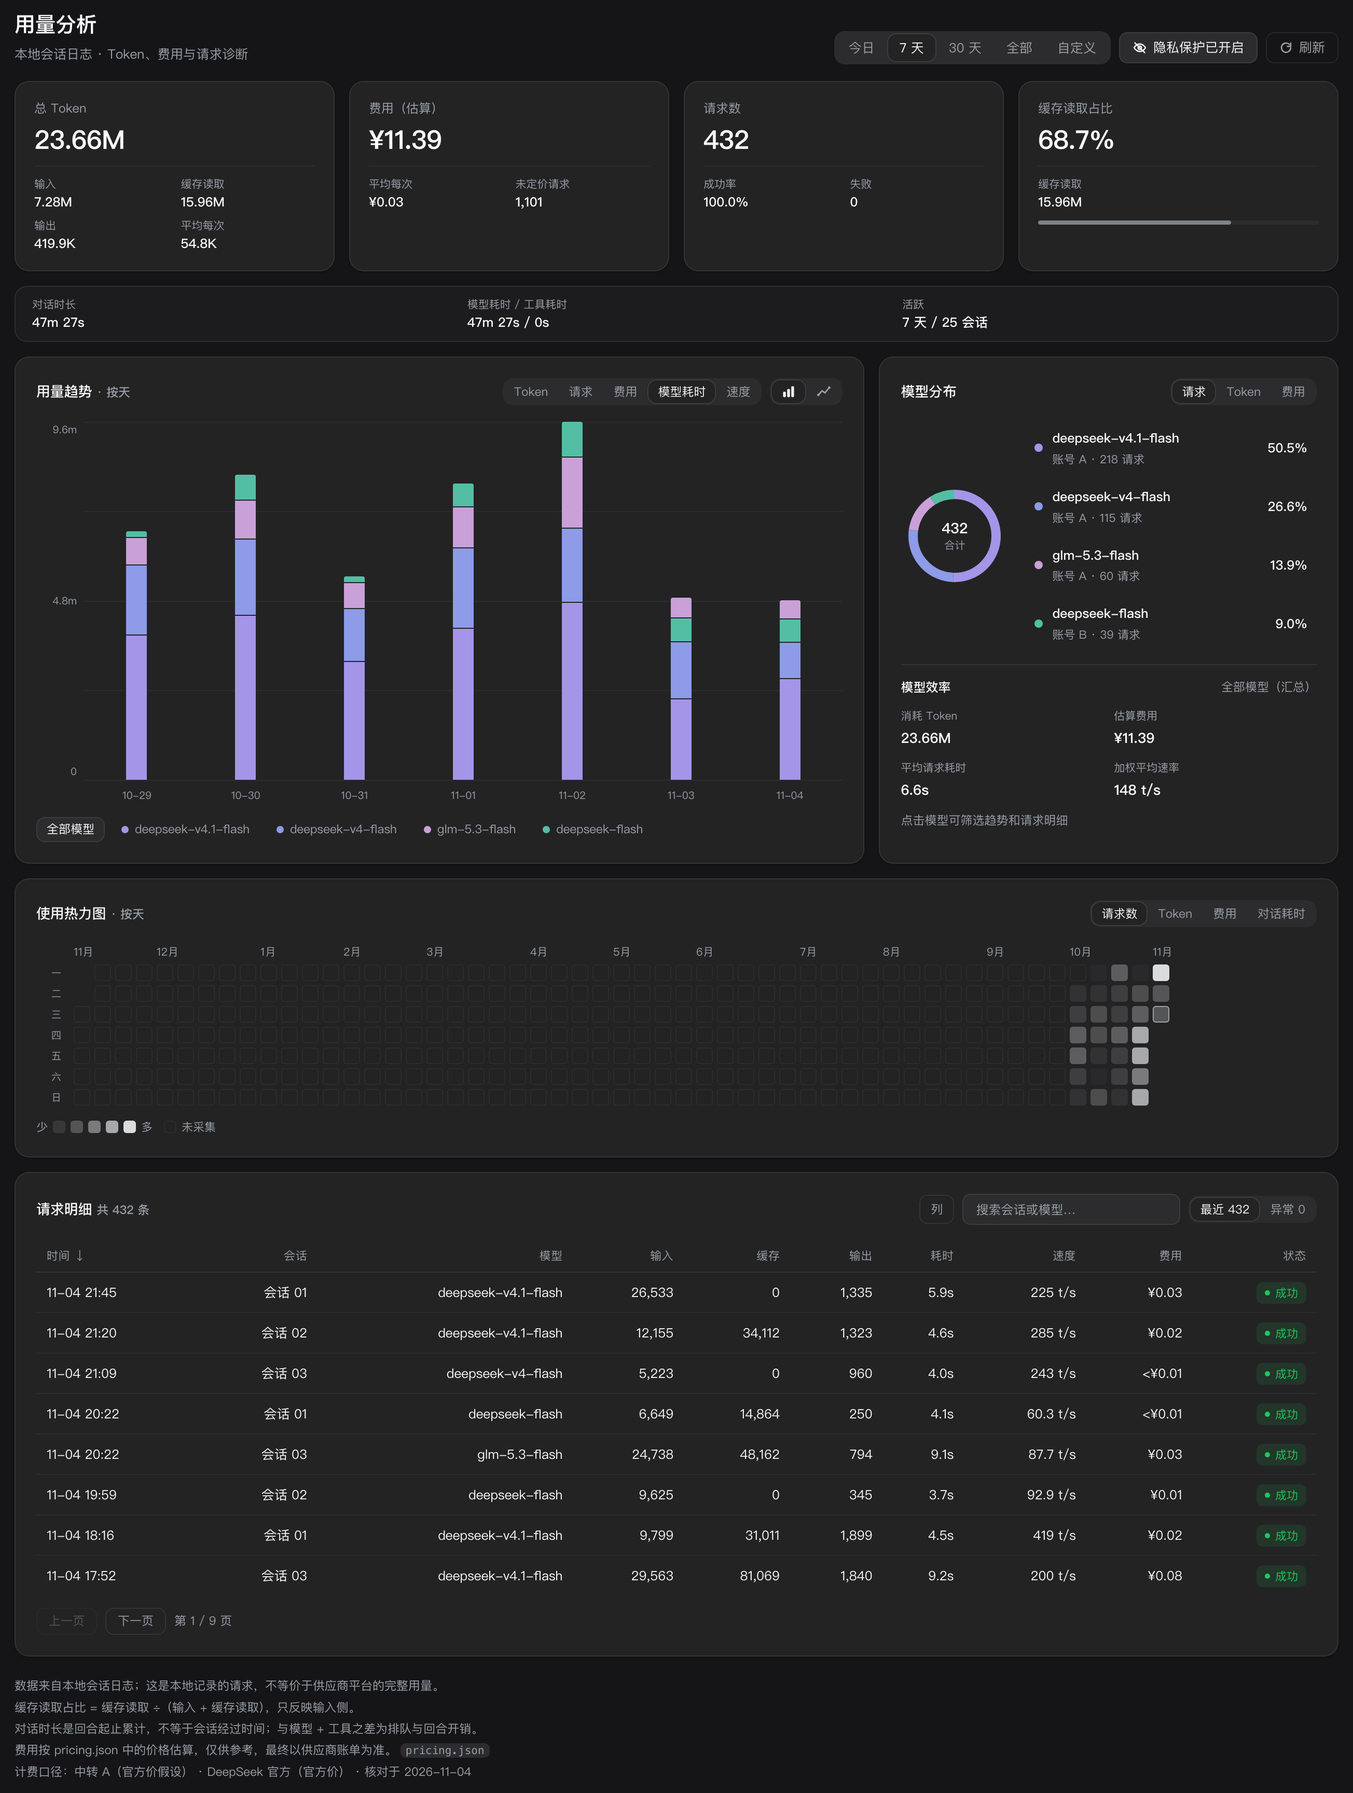
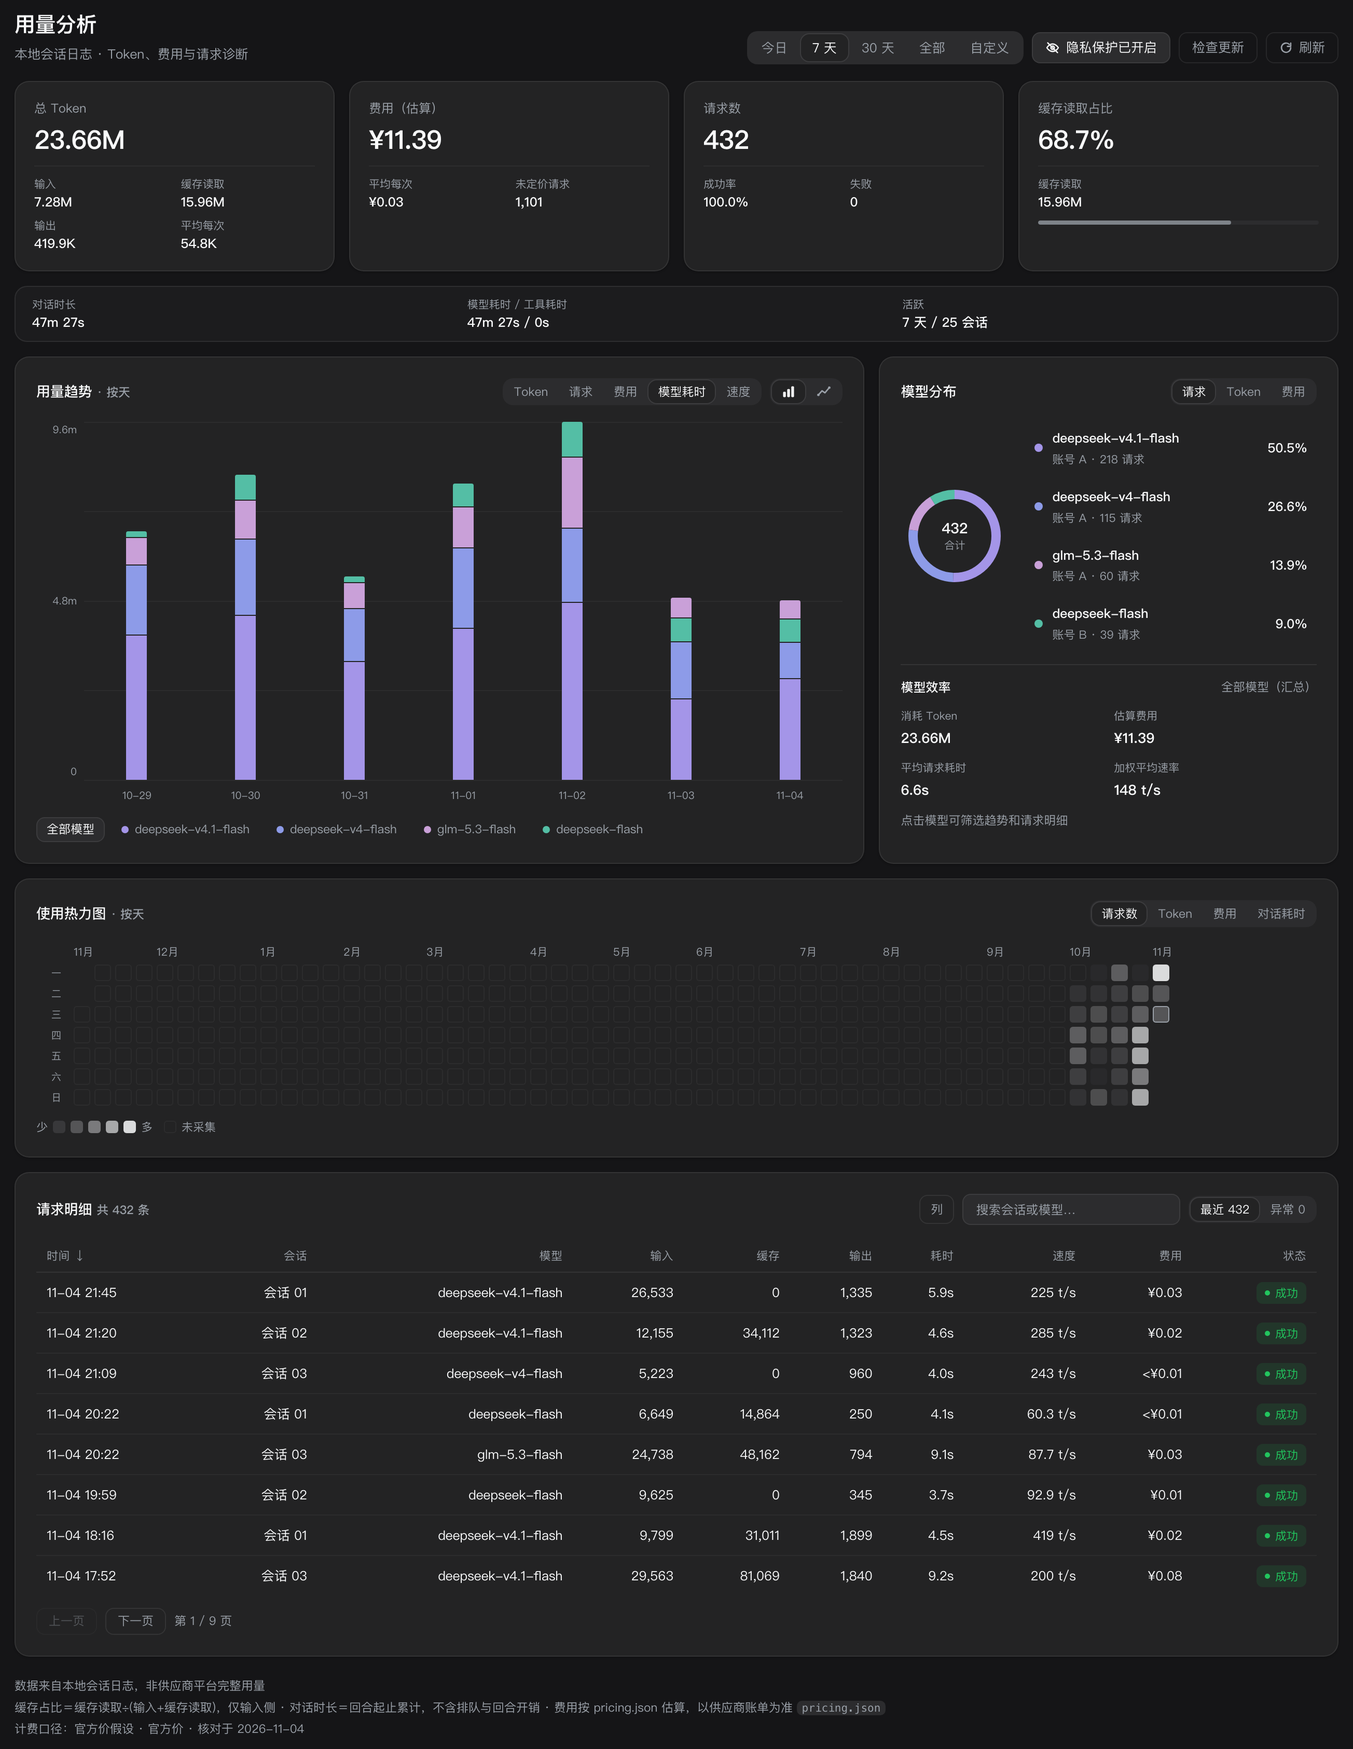
feat: 检查更新入口；页脚精简并去掉供应商名
页脚
- 原来 5 行说明 + 逐条 provider 名称（含第三方中转名、重复条目），
  改为 3 行：来源与覆盖 / 统计口径 / 计费口径
- 计费口径不再输出供应商名，只按来源计数（官方价 ×2 · 官方价假设 ×1 · 核对于 …），
  供应商名不会出现在页脚与截图里；同名 provider 不再重复
- 文案压缩，去掉重复解释

更新检查
- 宿主新增 GET /usage-dashboard/update：代理 api.github.com 的 latest release 查询
  （渲染进程受 CORS/CSP 限制无法直连），结果缓存 10 分钟，force=1 强制刷新
- 面板顶栏新增「检查更新」按钮；有新版本时横幅给出版本号、发布页链接与安装命令，
  离线或访问失败给出明确提示而不是静默失败
- 版本比较忽略 v 前缀与预发布后缀

版本 1.1.0 → 1.2.0；中英文 README 更新，截图重出

diff --git a/client.js b/client.js
@@ -37,6 +37,12 @@ window.__ModuleLoader__.load({
       'range.all': '全部',
       'range.custom': '自定义',
       refresh: '刷新',
+      'update.check': '检查更新',
+      'update.checking': '检查中…',
+      'update.available': '发现新版本 LATEST（当前 CURRENT）',
+      'update.open': '打开发布页',
+      'update.latest': '已是最新版本（VERSION）',
+      'update.error': '无法连接 GitHub，检查网络后重试',
       updated: '更新于',
       loading: '正在读取会话日志…',
       scanning: '正在统计历史会话',
@@ -200,11 +206,11 @@ window.__ModuleLoader__.load({
       'requests.inputHint': '输入 = 未命中缓存的输入 Token；总 Token = 输入 + 缓存 + 输出。',
       'note.unpriced': '以下模型没有价格，费用按 0 计：',
       'note.catalog': '以下模型按内置通用价目表估算（仅供估算，可在 pricing.json 覆盖）：',
-      'footer.source': '数据来自本地会话日志；这是本地记录的请求，不等价于供应商平台的完整用量。',
-      'footer.coverage': '本地日志：SE 个会话（进行中 LE 个，读取失败 ER 个）。',
-      'footer.cache': '缓存读取占比 = 缓存读取 ÷（输入 + 缓存读取），只反映输入侧。',
-      'footer.time': '对话时长是回合起止累计，不等于会话经过时间；与模型 + 工具之差为排队与回合开销。',
-      'footer.price': '费用按 pricing.json 中的价格估算，仅供参考，最终以供应商账单为准。',
+      'footer.source': '数据来自本地会话日志，非供应商平台完整用量',
+      'footer.coverage': 'SE 个会话（进行中 LE · 失败 ER）',
+      'footer.cache': '缓存占比＝缓存读取÷(输入+缓存读取)，仅输入侧',
+      'footer.time': '对话时长＝回合起止累计，不含排队与回合开销',
+      'footer.price': '费用按 pricing.json 估算，以供应商账单为准',
     }
 
     const en = {
@@ -217,6 +223,12 @@ window.__ModuleLoader__.load({
       'range.all': 'All time',
       'range.custom': 'Custom',
       refresh: 'Refresh',
+      'update.check': 'Check updates',
+      'update.checking': 'Checking…',
+      'update.available': 'Version LATEST is available (current CURRENT)',
+      'update.open': 'Open release',
+      'update.latest': 'Up to date (VERSION)',
+      'update.error': 'Cannot reach GitHub — check your network and retry',
       updated: 'Updated',
       loading: 'Reading session logs…',
       scanning: 'Scanning history',
@@ -380,11 +392,11 @@ window.__ModuleLoader__.load({
       'requests.inputHint': 'In = uncached input tokens; total = input + cache + output.',
       'note.unpriced': 'These models have no price, so their cost is counted as 0:',
       'note.catalog': 'These models are estimated from the built-in catalogue (override them in pricing.json):',
-      'footer.source': 'Local session logs only; these are locally recorded requests, not the provider’s full usage.',
-      'footer.coverage': 'Local logs: SE sessions (LE live, ER unreadable).',
-      'footer.cache': 'Cache read share = cache reads ÷ (input + cache reads), input side only.',
-      'footer.time': 'Conversation time sums turn durations, not session wall time; the gap to model + tools is queueing and turn overhead.',
-      'footer.price': 'Cost is estimated from pricing.json and is not a bill; the provider statement is authoritative.',
+      'footer.source': 'Local session logs only — not the provider’s full usage',
+      'footer.coverage': 'SE sessions (LE live · ER unreadable)',
+      'footer.cache': 'Cache share = cacheRead ÷ (input + cacheRead), input side only',
+      'footer.time': 'Conversation time = turn start-to-end, excluding queueing and turn overhead',
+      'footer.price': 'Cost estimated from pricing.json; the provider bill wins',
     }
 
     const CSS = `
@@ -1969,6 +1981,7 @@ window.__ModuleLoader__.load({
       const [dayFilter, setDayFilter] = useState(null)
       const [restore, setRestore] = useState(null)
       const [privacy, setPrivacy] = useState(false)
+      const [update, setUpdate] = useState(null)
       const sessionMap = useRef(null)
       const accountMap = useRef(null)
       const sessionSeq = useRef(0)
@@ -2005,6 +2018,20 @@ window.__ModuleLoader__.load({
       const to = bounds[1]
 
       const refresh = useCallback(() => setRevision((value) => value + 1), [])
+
+      // Release check: the host proxies api.github.com (browsers cannot reach it
+      // without CORS), so the panel only needs one authenticated local route.
+      const checkUpdate = useCallback(async () => {
+        setUpdate({ state: 'checking' })
+        try {
+          const response = await fetch('usage-dashboard/update?force=1', { credentials: 'same-origin' })
+          if (!response.ok) throw new Error('HTTP ' + response.status)
+          const payload = await response.json()
+          setUpdate(payload.error ? { state: 'error', error: payload.error } : { state: 'done', ...payload })
+        } catch (error) {
+          setUpdate({ state: 'error', error: String(error && error.message ? error.message : error) })
+        }
+      }, [])
 
       useEffect(() => {
         let cancelled = false
@@ -2153,6 +2180,18 @@ window.__ModuleLoader__.load({
           ),
           h(
             'button',
+            {
+              type: 'button',
+              className: 'ud-refresh',
+              'data-active': String(update !== null && update.state === 'done' && update.updateAvailable === true),
+              onClick: checkUpdate,
+              disabled: update !== null && update.state === 'checking',
+              title: t('update.check'),
+            },
+            update !== null && update.state === 'checking' ? t('update.checking') : t('update.check'),
+          ),
+          h(
+            'button',
             { type: 'button', className: 'ud-refresh', 'data-busy': String(busy), onClick: refresh, disabled: state.loading },
             h(
               'svg',
@@ -2242,6 +2281,38 @@ window.__ModuleLoader__.load({
               h('button', { type: 'button', className: 'ud-filter-clear', onClick: clearAll }, t('filter.all')),
             )
           : null
+
+        // Provider *names* never reach the footer: counts by billing source keep
+        // the line short and stop personal relay names leaking into screenshots.
+        const billingSummary = () => {
+          const counts = new Map()
+          const providers = (data && data.pricing && data.pricing.providers) || []
+          for (const item of providers) {
+            const label = item.source === 'official' ? t('billing.official') : item.source === 'assumed-official' ? t('billing.assumed') : t('billing.unconfirmed')
+            counts.set(label, (counts.get(label) || 0) + 1)
+          }
+          const parts = [...counts].map(([label, count]) => (count > 1 ? label + ' ×' + count : label))
+          const checked = data && data.pricing && data.pricing.checkedAt ? ' · ' + t('billing.checkedAt') + ' ' + data.pricing.checkedAt : ''
+          const tools = data && data.pricing && data.pricing.tools ? ' · ' + t('billing.tools') : ''
+          return t('billing.footer') + parts.join(' · ') + checked + tools
+        }
+
+        const releaseBanner =
+          update === null
+            ? null
+            : update.state === 'error'
+              ? h('div', { className: 'ud-banner' }, t('update.error'))
+              : update.state === 'done'
+                ? update.updateAvailable
+                  ? h(
+                      'div',
+                      { className: 'ud-banner' },
+                      h('span', null, t('update.available').replace('LATEST', String(update.latest)).replace('CURRENT', String(update.current))),
+                      update.url ? h('a', { href: String(update.url), target: '_blank', rel: 'noreferrer' }, t('update.open')) : null,
+                      h('code', null, 'plugin_manager install_bundle target=<解压后的目录>'),
+                    )
+                  : h('div', { className: 'ud-banner' }, t('update.latest').replace('VERSION', String(update.current)))
+                : null
 
       let body = null
       if (data === null) {
@@ -2501,46 +2572,30 @@ window.__ModuleLoader__.load({
             header,
             dates,
             banner,
+            releaseBanner,
             body,
             h(
               'footer',
               { className: 'ud-footer' },
-              h('div', null, t('footer.source')),
-              data && data.coverage
-                ? h(
-                    'div',
-                    null,
-                    t('footer.coverage')
-                      .replace('SE', fmtInt(data.coverage.sessions))
-                      .replace('LE', fmtInt(data.coverage.live))
-                      .replace('ER', fmtInt(data.coverage.errors)),
-                  )
-                : null,
-              h('div', null, t('footer.cache')),
-              h('div', null, t('footer.time')),
-              h('div', null, t('footer.price'), ' ', h('code', null, 'pricing.json')),
-              data && data.pricing
-                ? h(
-                    'div',
-                    null,
-                    t('billing.footer') +
-                      data.pricing.providers
-                        .map(
-                          (item) =>
-                            item.label +
-                            '（' +
-                            (item.source === 'official'
-                              ? t('billing.official')
-                              : item.source === 'assumed-official'
-                                ? t('billing.assumed')
-                                : t('billing.unconfirmed')) +
-                            '）',
-                        )
-                        .join(' · ') +
-                      (data.pricing.checkedAt ? ' · ' + t('billing.checkedAt') + ' ' + data.pricing.checkedAt : '') +
-                      (data.pricing.tools ? ' · ' + t('billing.tools') : ''),
-                  )
-                : null,
+              h(
+                'div',
+                null,
+                t('footer.source') +
+                  (data && data.coverage
+                    ? ' · ' +
+                      t('footer.coverage')
+                        .replace('SE', fmtInt(data.coverage.sessions))
+                        .replace('LE', fmtInt(data.coverage.live))
+                        .replace('ER', fmtInt(data.coverage.errors))
+                    : ''),
+              ),
+              h(
+                'div',
+                null,
+                t('footer.cache') + ' · ' + t('footer.time') + ' · ' + t('footer.price') + ' ',
+                h('code', null, 'pricing.json'),
+              ),
+              data && data.pricing ? h('div', null, billingSummary()) : null,
             ),
           ),
         ),

diff --git a/index.js b/index.js
@@ -17,6 +17,9 @@ export const inject = ['webServer', 'connection', 'sessionQuery', 'sessions']
 
 const ROUTE_PATH = '/usage-dashboard/summary'
 const REQUESTS_PATH = '/usage-dashboard/requests'
+const UPDATE_PATH = '/usage-dashboard/update'
+const UPDATE_REPO = 'muxili87-art/dsh-token-lens'
+const UPDATE_TTL_MS = 10 * 60_000
 const CACHE_VERSION = 3
 const PLUGIN_DIR = dirname(fileURLToPath(import.meta.url))
 const DSH_HOME = process.env.DSH_HOME || join(homedir(), '.dsh')
@@ -33,6 +36,30 @@ function sendJson(res, status, payload) {
   res.setHeader('content-type', 'application/json; charset=utf-8')
   res.setHeader('cache-control', 'no-store')
   res.end(JSON.stringify(payload))
+}
+
+
+/** Numeric semver comparison; pre-release suffixes are ignored on purpose. */
+function compareVersion(left, right) {
+  const parse = (value) => String(value || '').replace(/^v/i, '').split(/[.+-]/).map((part) => Number.parseInt(part, 10) || 0)
+  const a = parse(left)
+  const b = parse(right)
+  for (let i = 0; i < Math.max(a.length, b.length, 3); i += 1) {
+    const x = a[i] || 0
+    const y = b[i] || 0
+    if (x > y) return 1
+    if (x < y) return -1
+  }
+  return 0
+}
+
+async function readLocalVersion() {
+  try {
+    const manifest = JSON.parse(await readFile(join(PLUGIN_DIR, 'package.json'), 'utf8'))
+    return typeof manifest.version === 'string' ? manifest.version : '0.0.0'
+  } catch {
+    return '0.0.0'
+  }
 }
 
 function errorText(error) {
@@ -329,6 +356,58 @@ export function apply(ctx) {
     }
   }
 
+
+  let updateCache = null
+
+  /**
+   * Proxy the GitHub "latest release" lookup. The renderer has no outbound
+   * network of its own (CSP + CORS), so the host answers instead and caches for
+   * ten minutes; `force=1` skips the cache for the explicit button.
+   */
+  async function checkUpdate(force) {
+    if (!force && updateCache !== null && Date.now() - updateCache.at < UPDATE_TTL_MS) return updateCache.payload
+    const current = await readLocalVersion()
+    const payload = {
+      current,
+      latest: null,
+      url: null,
+      publishedAt: null,
+      asset: null,
+      updateAvailable: false,
+      checkedAt: new Date().toISOString(),
+      repo: UPDATE_REPO,
+      error: null,
+    }
+    try {
+      const response = await fetch('https://api.github.com/repos/' + UPDATE_REPO + '/releases/latest', {
+        headers: { accept: 'application/vnd.github+json', 'user-agent': 'dsh-token-lens-update-check' },
+        signal: AbortSignal.timeout(7000),
+      })
+      if (!response.ok) throw new Error('HTTP ' + response.status)
+      const release = await response.json()
+      payload.latest = typeof release.tag_name === 'string' ? release.tag_name : null
+      payload.url = typeof release.html_url === 'string' ? release.html_url : null
+      payload.publishedAt = typeof release.published_at === 'string' ? release.published_at : null
+      const asset = Array.isArray(release.assets) ? release.assets.find((item) => typeof item.name === 'string' && item.name.endsWith('.zip')) : null
+      payload.asset = asset && typeof asset.browser_download_url === 'string' ? asset.browser_download_url : null
+      payload.updateAvailable = payload.latest !== null && compareVersion(payload.latest, current) > 0
+    } catch (error) {
+      payload.error = errorText(error)
+    }
+    updateCache = { at: Date.now(), payload }
+    return payload
+  }
+
+  async function updateHandler(req, res) {
+    if (reject(req, res)) return
+    const { url } = readQuery(req)
+    try {
+      sendJson(res, 200, await checkUpdate(url.searchParams.get('force') === '1'))
+    } catch (error) {
+      sendJson(res, 500, { status: 'error', error: errorText(error) })
+    }
+  }
+
   ctx.effect(
     () => ctx.webServer.register({ kind: 'exact', path: ROUTE_PATH, handler }),
     'usage-dashboard: GET ' + ROUTE_PATH,
@@ -336,6 +415,10 @@ export function apply(ctx) {
   ctx.effect(
     () => ctx.webServer.register({ kind: 'exact', path: REQUESTS_PATH, handler: requestsHandler }),
     'usage-dashboard: GET ' + REQUESTS_PATH,
+  )
+  ctx.effect(
+    () => ctx.webServer.register({ kind: 'exact', path: UPDATE_PATH, handler: updateHandler }),
+    'usage-dashboard: GET ' + UPDATE_PATH,
   )
   ctx.effect(() => () => controller.abort(), 'usage-dashboard: stop session scans')
 }

diff --git a/README.en.md b/README.en.md
@@ -39,6 +39,7 @@ This plugin answers all of it at once: one click in the sidebar for trends, a he
 | **Speed panel** | Speed distribution (P25/P50/P75 ranges) and a speed trend chart for fast multi-model comparison |
 | **Searchable request log** | Sort by time/duration/tokens, filter by model and keyword, separate view for failed requests |
 | **Privacy mode** | One click hides session titles, accounts, error details and sensitive model names; every number stays identical — safe for screenshots and issues |
+| **Update check** | The header's *Check updates* asks GitHub for the latest release and shows the release page and install command when a newer one exists |
 | **Peak/off-peak pricing + built-in catalogue** | Peak/off-peak rates on Beijing-time weekdays; ships public list prices for DeepSeek / OpenAI / Anthropic / Gemini and matches them by model name |
 
 The panel follows the Harness language setting (Chinese / English).
@@ -70,6 +71,8 @@ plugin_manager install_bundle target=<absolute path to the unzipped folder>
 
 3. Quit DeepSeek Harness completely and reopen it (the first load or a replacement must restart so the browser-side client modules are rebuilt);
 4. The **Usage Analysis** icon appears in the sidebar.
+
+Upgrades: run `plugin_manager install_bundle` again with the new zip, then quit and reopen. The panel's *Check updates* button tells you when GitHub has a newer release.
 
 Data is computed automatically: the plugin scans `~/.dsh/sessions` in the background, folds it into per-day buckets and caches the result in `~/.dsh/usage-dashboard/cache.v1.json`, then only refreshes incrementally.
 

diff --git a/README.md b/README.md
@@ -39,6 +39,7 @@ Harness 默认只记录会话日志，不会告诉你：
 | **速度面板** | 速度分布（P25/P50/P75 区间）与速度趋势折线，多模型对比一眼看清 |
 | **可检索请求明细** | 按时间/耗时/Token 排序，支持模型与关键词搜索，失败请求有独立视图 |
 | **隐私模式** | 一键隐藏会话名、账号、错误详情与敏感模型名，数字不变——适合截图与共享 |
+| **更新检查** | 顶栏「检查更新」查询 GitHub 最新 Release，有新版本时给出发布页与安装命令 |
 | **峰谷计价 + 内置价目表** | 按北京时间工作日高峰/低谷两档估算；默认带 DeepSeek / OpenAI / Anthropic / Gemini 公开价目，按模型名自动匹配 |
 
 ## 界面
@@ -68,6 +69,8 @@ plugin_manager install_bundle target=<解压后的绝对路径>
 
 3. 完全退出并重新打开 DeepSeek Harness（首次加载/替换插件必须重启，浏览器半的客户端模块才会重新组装）；
 4. 左侧边栏出现「用量分析」图标，点击进入。
+
+升级：用新版本的 zip 重跑一次 `plugin_manager install_bundle`，再完全退出重启即可；面板顶栏的「检查更新」会直接告诉你 GitHub 上有没有新版本。
 
 安装后数据自动计算：插件会在后台扫描 `~/.dsh/sessions`，增量折叠成按天桶并缓存到 `~/.dsh/usage-dashboard/cache.v1.json`，之后每次打开只做增量更新。
 
